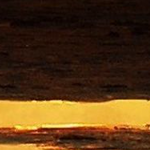
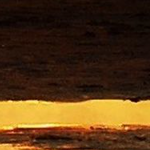
WIP

diff --git a/generate.go b/generate.go
@@ -32,7 +32,7 @@ func main() {
 			cmd.Run()
 
 			// Crop the image
-			x := ((i+1) * 68.0) + (i * 150.0)
+			x := ((i+1) * 76.0) + (i * 150.0)
 			y := 190.0 + (j * 150.0) + (j * 172.0)
 			cropArg := fmt.Sprintf("crop=150:150:%d:%d", x, y)
 			cmd = exec.Command("ffmpeg", "-i", "wallpaper_scaled.png", "-vf", cropArg, fileName)
